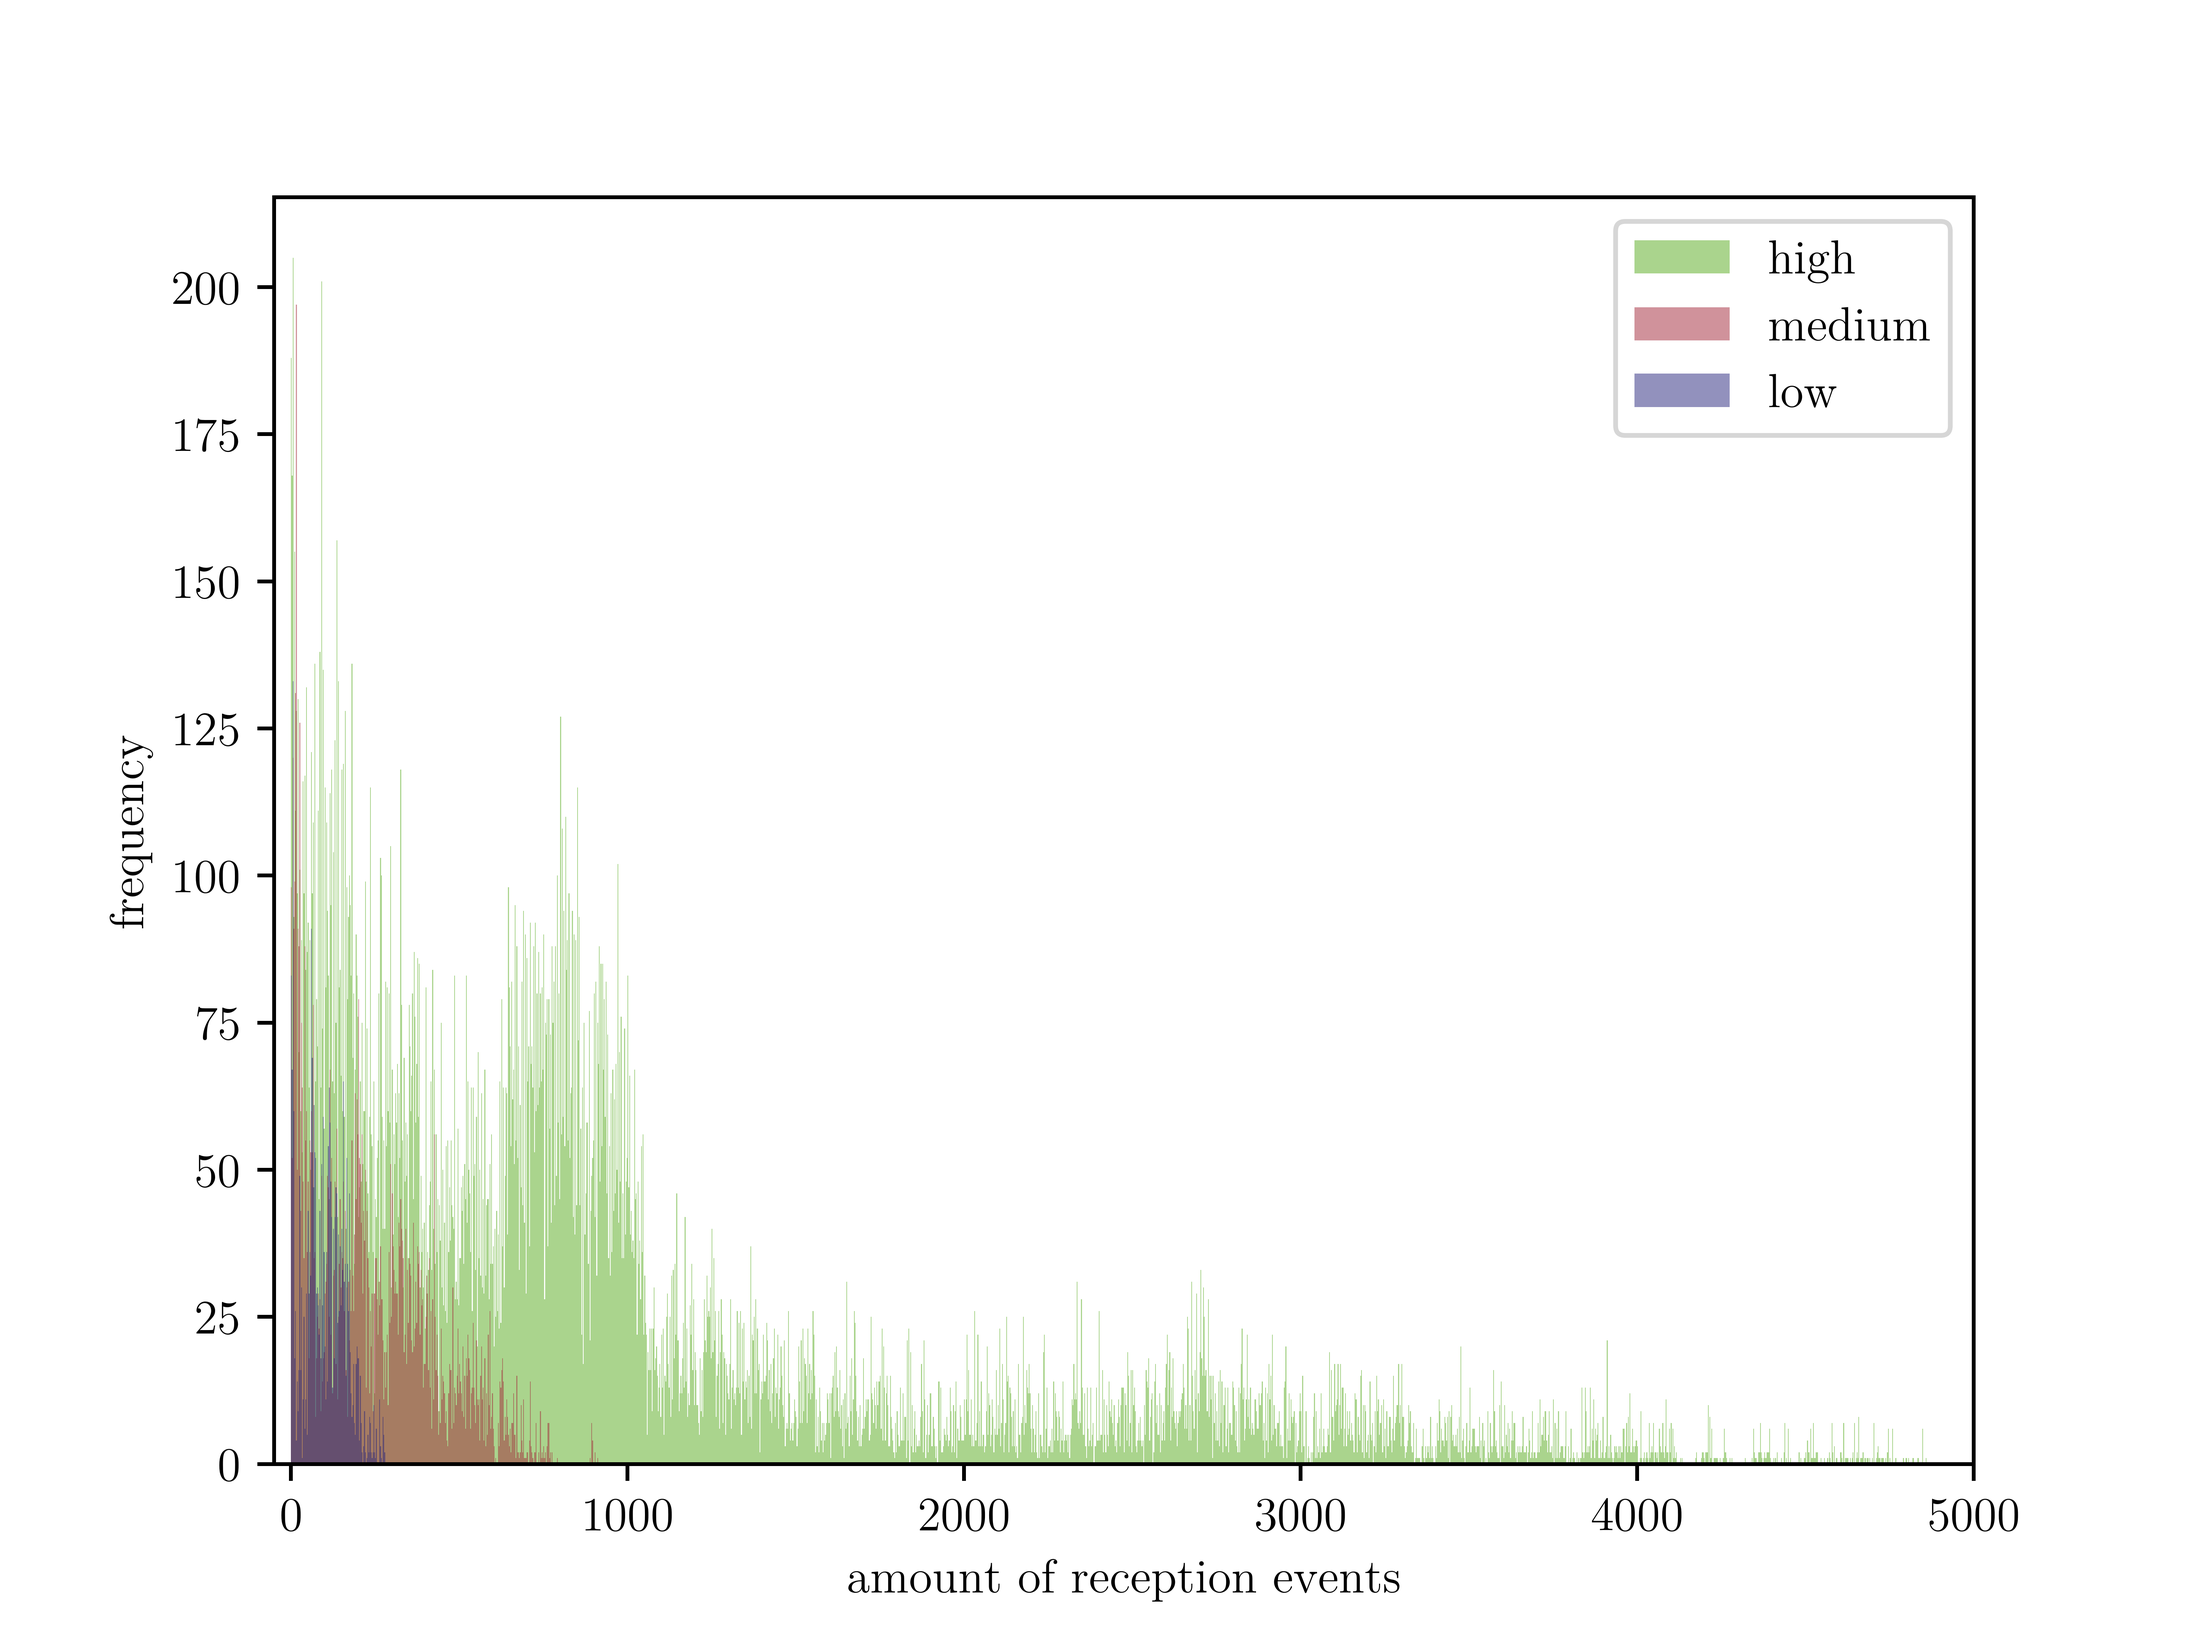
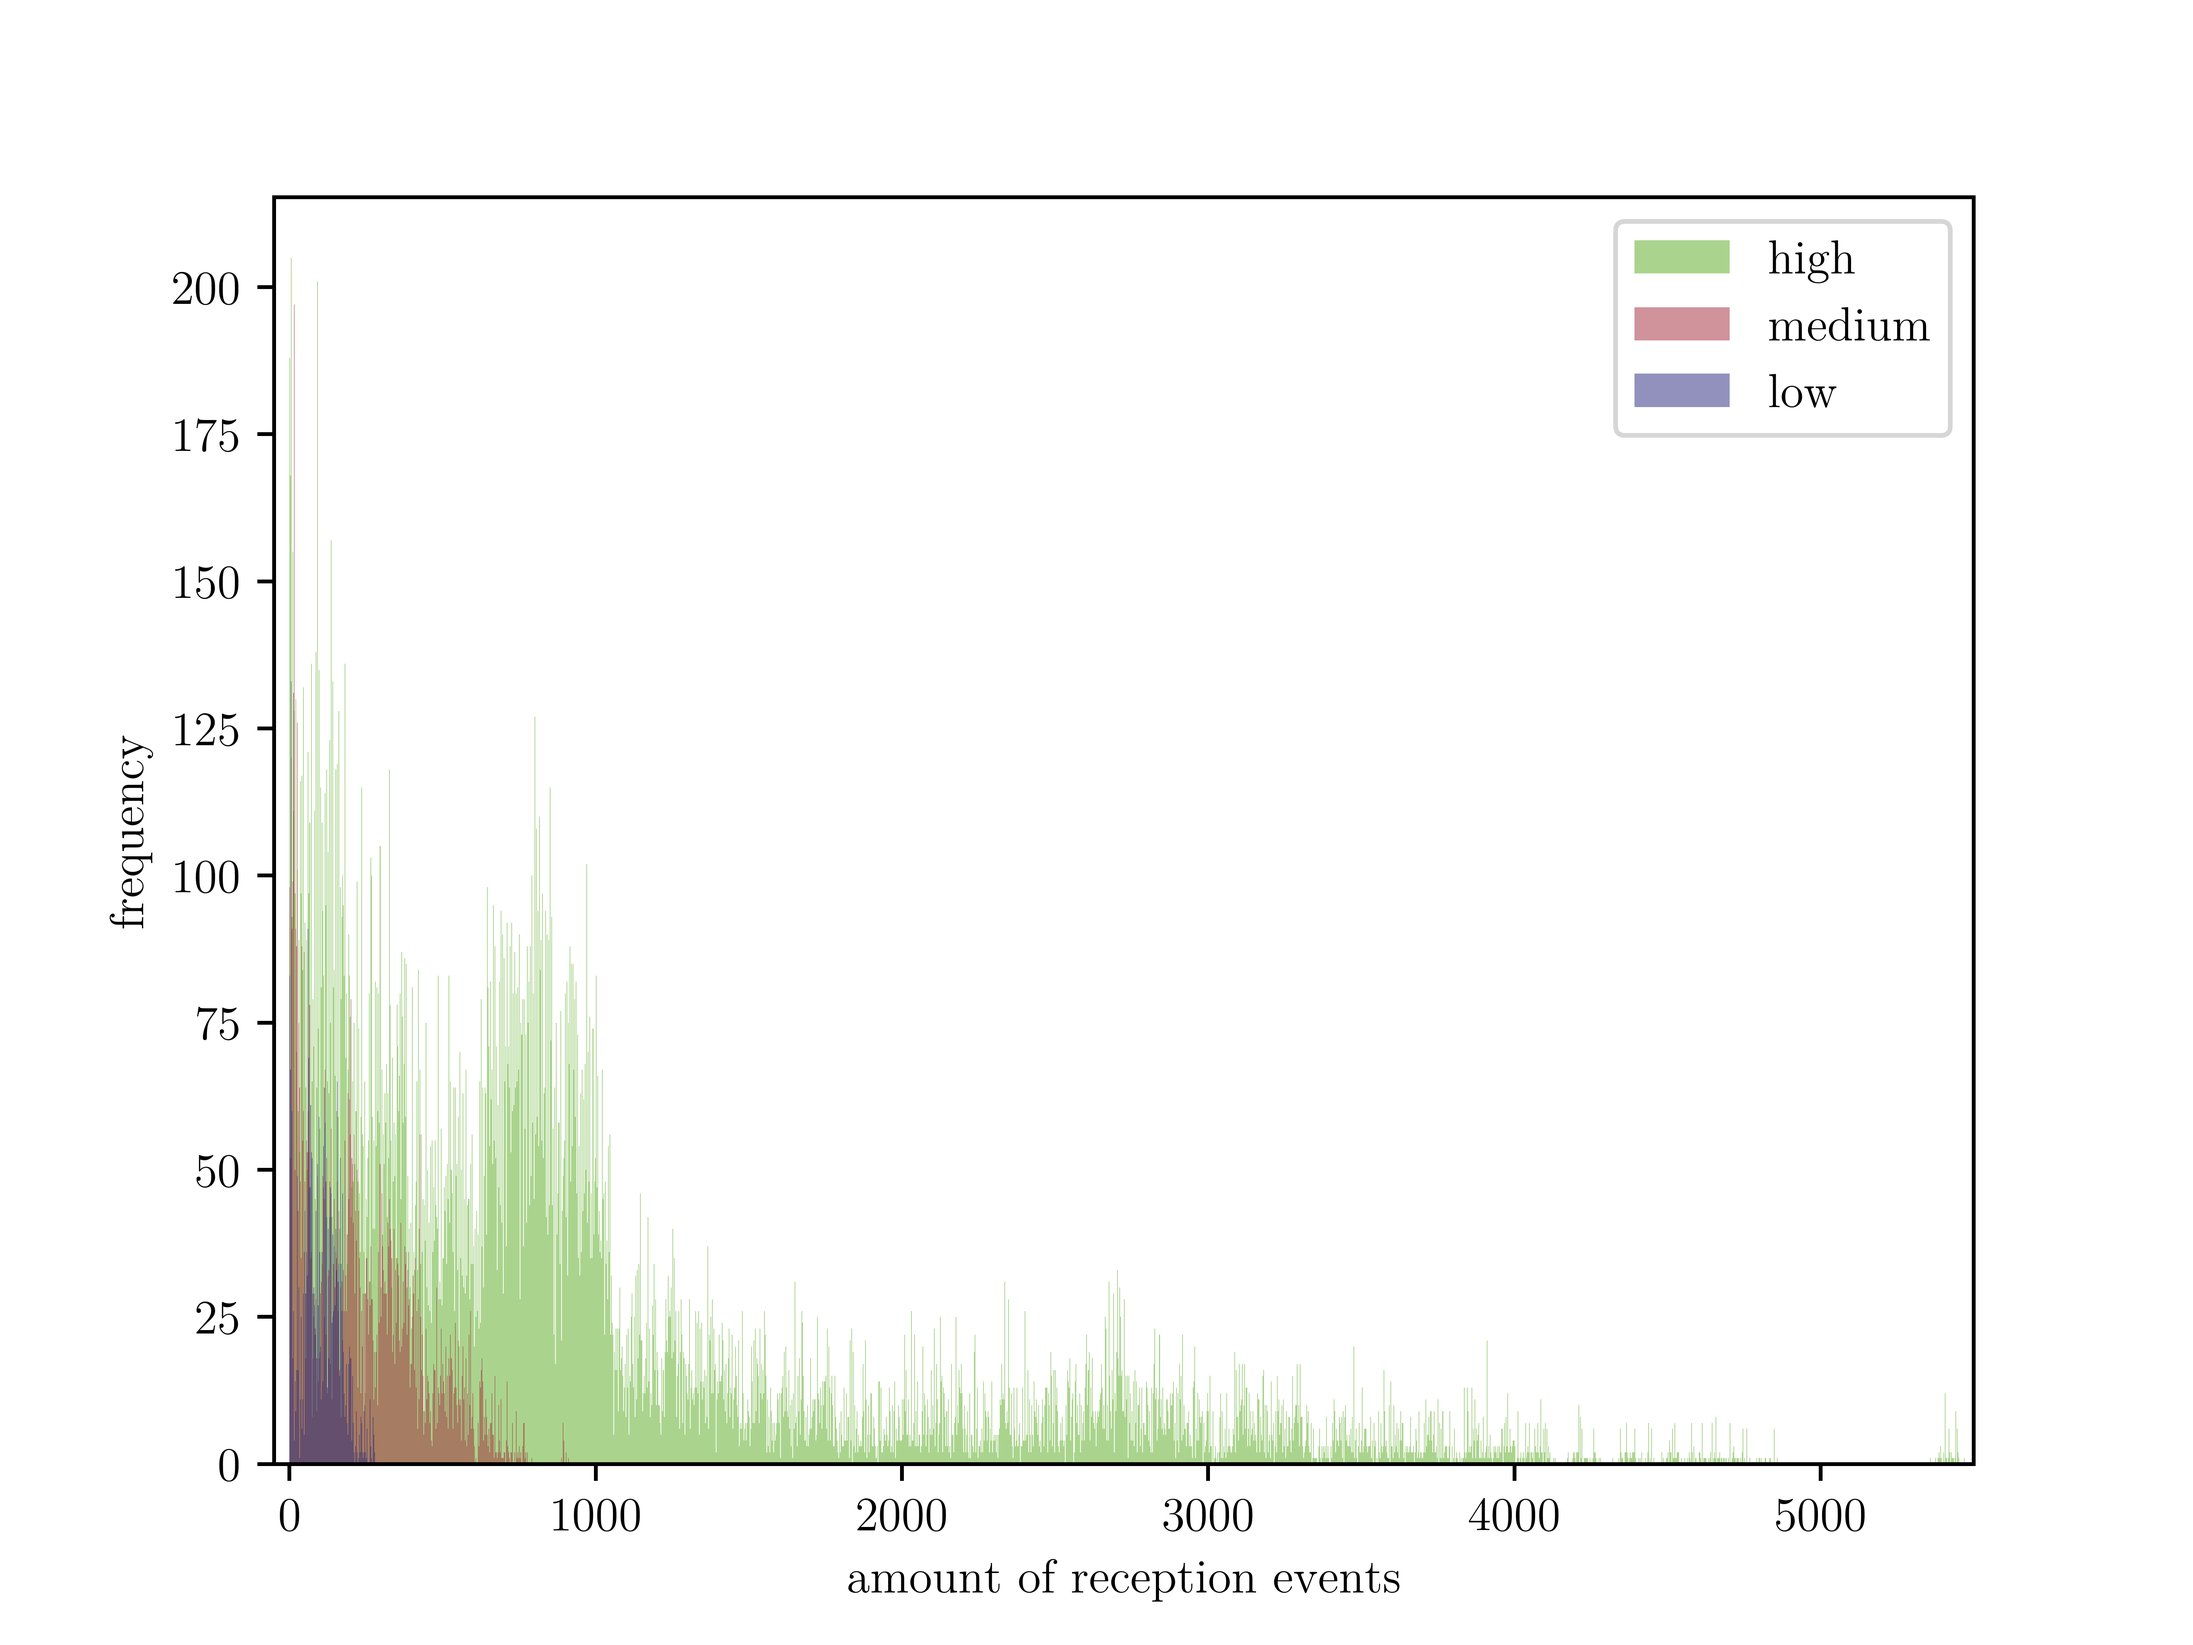
updated graph after reading that maximum value is 5468

diff --git a/dataset/boxplots.py b/dataset/boxplots.py
@@ -32,11 +32,11 @@ if __name__ == "__main__":
         bins_resolution = [2.5,1200]
     else:
         labels = ["high","medium","low"]
-        x_range = [-50,5000]
+        x_range = [-50,5500]
         x_axis_label = "amount of reception events"
         filename_hist = "histogram-reception-events.png"
         filename_box = "boxplot-reception-events.png"
-        bins_resolution = [2.5,2000]
+        bins_resolution = [2.5,2200]
 
     csvs.append(high)
     csvs.append(med)
